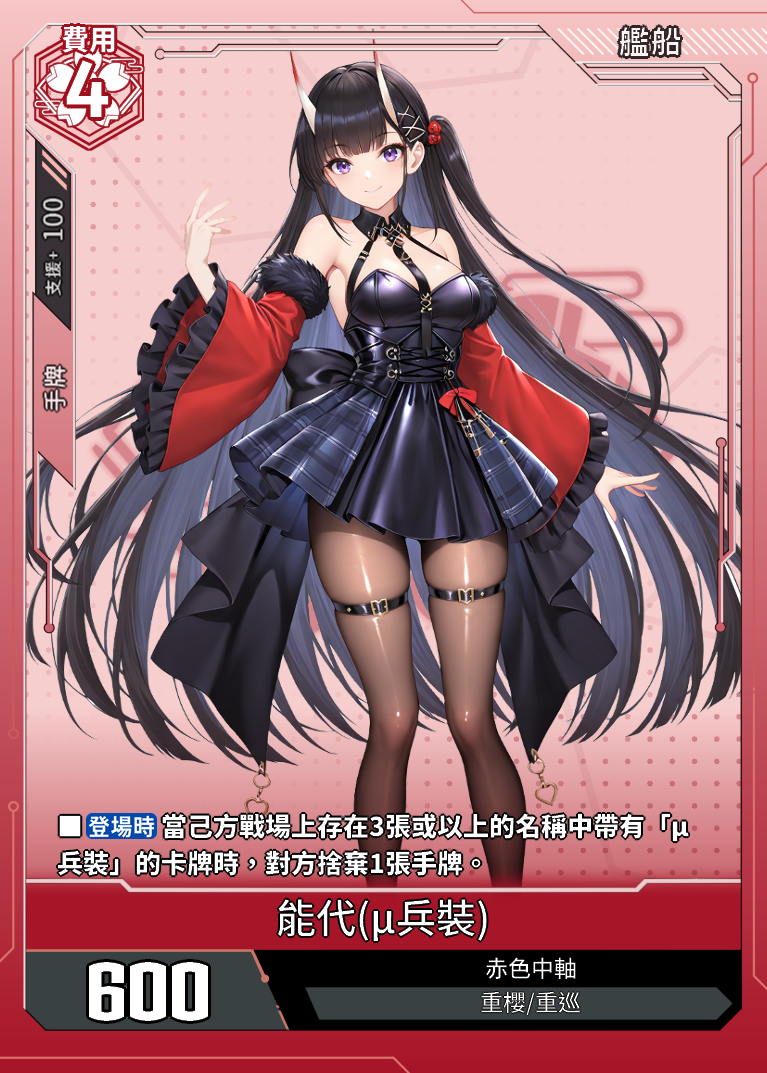
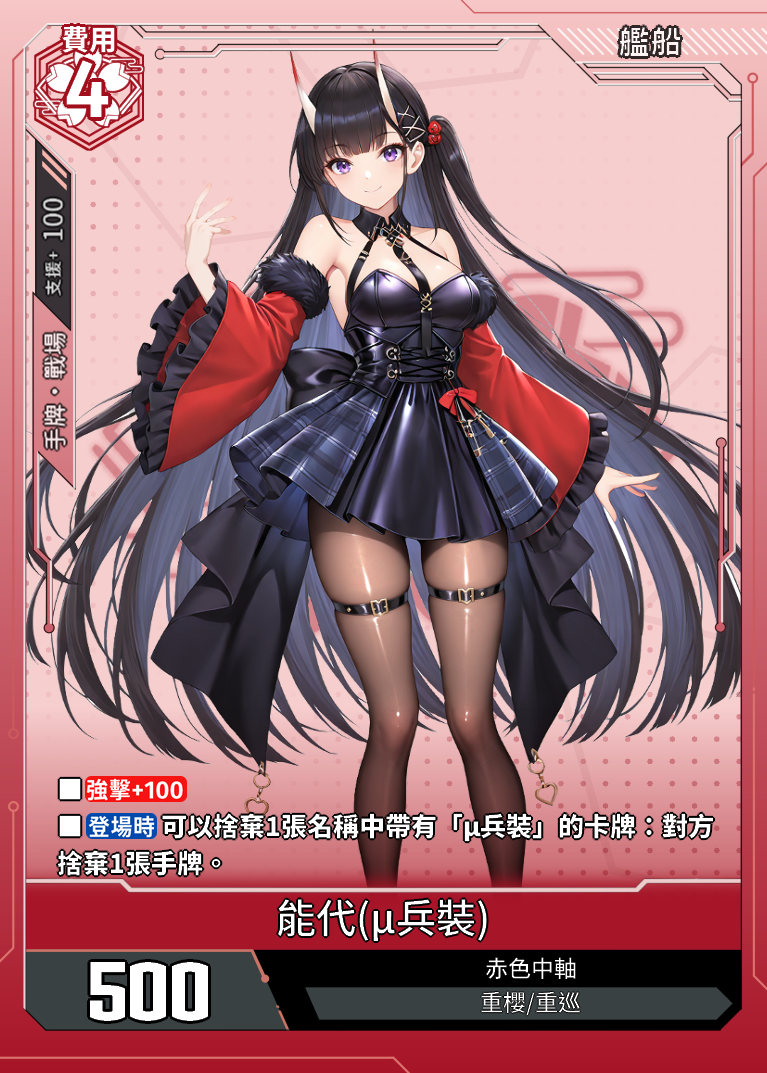
修改能代u跟小可畏

Changed region(s): [[0.06, 0.7074, 0.9296, 0.8304], [0.03, 0.3075, 0.09, 0.4306], [0.09, 0.8919, 0.1799, 0.9534]]

diff --git a/data.js b/data.js
@@ -23910,15 +23910,15 @@ const cards = [
             "顏　色": "紅",
             "種　類": "艦船卡",
             "費　用": "4",
-            "戰　力": "600",
+            "戰　力": "500",
             "陣　營": "重櫻",
             "艦船類型": "重巡",
             "罕　貴": "-",
             "勢　力": "赤色中軸",
-            "支援範圍": "手牌",
+            "支援範圍": "手牌·戰場",
             "支援值": "100"
         },
-        "card_effect": "■【登場時】當己方戰場上存在3張或以上的名稱中帶有「μ兵裝」的卡牌時，對方捨棄1張手牌。",
+        "card_effect": "■【強擊+100】■【登場時】可以捨棄1張名稱中帶有「μ兵裝」的卡牌：對方捨棄1張手牌。",
         "acquisition_method": "CE02-早期測試"
     },
 	{
@@ -24944,7 +24944,7 @@ const cards = [
             "支援範圍": "手牌·戰場",
             "支援值": "100"
         },
-        "card_effect": "■所有區域的此卡同樣被視為「可畏」。■當己方旗艦卡為《皇家》卡牌時，手牌中的此卡登場時所需支付費用-3。■【登場時】可以將此卡以及己方的旗艦卡轉為休息狀態：選擇對方戰場上的1張費用為3或以下的艦船卡，將該卡轉為休息狀態，並且在下一個對方的重置階段中，該卡不能被轉為激活狀態。",
+        "card_effect": "■所有區域的此卡同樣被視為「可畏」。■當己方旗艦卡為《皇家》卡牌時，手牌中的此卡登場時所需支付費用-3，且此卡以休息狀態登場。■【登場時】選擇對方戰場上的1張費用為3或以下的艦船卡，將該卡轉為休息狀態。",
         "acquisition_method": "CE02-早期測試"
     },
 	{
